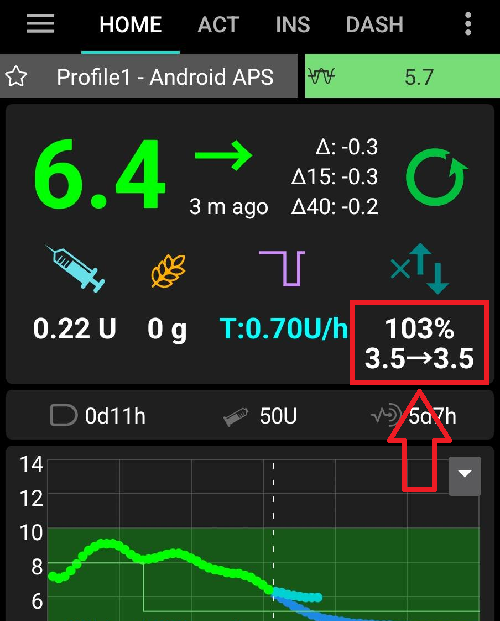
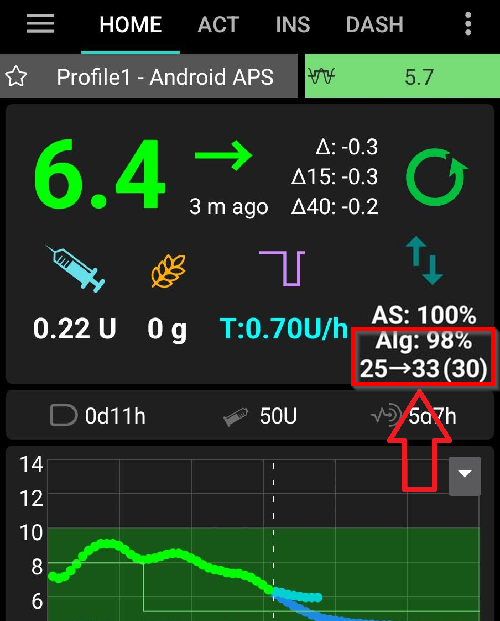
update Screens part for DynISF

Changed region(s): [[0.69, 0.3671, 1.0, 0.6425]]

diff --git a/docs/EN/DailyLifeWithAaps/AapsScreens.md b/docs/EN/DailyLifeWithAaps/AapsScreens.md
@@ -155,8 +155,8 @@ An icon with a kid's face at the top right of this section indicates that you ar
 
 ![Section D](../images/Home2020_TBR.png)
 
-**Syringe**: insulin on board (IOB) - amount of active insulin inside your body
-1. The insulin on board figure would be zero if just your standard basal was running and there was no insulin remaining from previous boluses. 
+1. **Syringe**: insulin on board (IOB) - amount of active insulin inside your body<br/>
+The insulin on board figure would be zero if just your standard basal was running and there was no insulin remaining from previous boluses. 
    - IOB may be negative if there have recently been periods of reduced basal.
    - Press the icon to see the split of bolus and basal insulin
 
@@ -164,7 +164,9 @@ An icon with a kid's face at the top right of this section indicates that you ar
     The icon pulses red if carbs are required (see [below](#aaps-screens-carbs-required))
 3. **Purple line**: current basal rate. The icon changes to reflect temporary changes in basal rate (flat at 100%)
    * Press the icon to see the base basal rate and details of any temp basal (including remaining duration)
-4. **Arrows up & down**: indicating actual [Autosens](#Open-APS-features-autosens) status (enabled or disabled) and value is shown below icon
+4. **Arrows up & down**: indicates dynamic sensitivity features status ([Autosens](#Open-APS-features-autosens) or [DynamicISF](#Open-APS-features-DynamicISF)): enabled or disabled. Several values may be shown in this section:
+  - AS: Autosens value. Shown even if Autosens is disabled (for information only). Also shown when DynISF is activated, although it has no effect.
+  - Alg: DynamicISF value (based on TDD). More information on the last line on [DynamicISF](#Open-APS-features-DynamicISF) page.
 
 (aaps-screens-carbs-required)=
 #### Carbs required

diff --git a/docs/EN/DailyLifeWithAaps/SensitivityDetectionAndCob.md b/docs/EN/DailyLifeWithAaps/SensitivityDetectionAndCob.md
@@ -18,6 +18,8 @@ Sensitivity is calculated as a weighted average from deviations. You can specify
 ### Sensitivity Oref1
 Sensitivity is calculated from 8h data in the past or from last site change, if it is less than 8h ago. Carbs (if not absorbed) are cut after time specified in preferences. Only the Oref1 algorithm supports un-announced meals (UAM). This means that times with detected UAM are excluded from sensitivity calculation. So if you are using SMB with UAM, you have to choose Oref1 algorithm to work properly. For more information read [OpenAPS Oref1 documentation](https://openaps.readthedocs.io/en/latest/docs/Customize-Iterate/oref1.html).
 
+Oref1 is the recommended option : it is the only one that can detect UAM and work with [OpenAps SMB](#Open-APS-features-super-micro-bolus-smb), the more recent algorithm.
+
 ## Simultaneous carbs
 There is significant difference while using AAPS, WeightedAverage vs Oref1.
 Oref plugins expects only one meal decaying at time. It means 2nd meal starts decaying after 1st meal is completely decayed. 

diff --git a/docs/EN/DailyLifeWithAaps/DynamicISF.md b/docs/EN/DailyLifeWithAaps/DynamicISF.md
@@ -21,6 +21,10 @@ Dynamic ISF - an example of a user's **ISF** subject to change as determined by 
 
 ![Dyn ISF](../images/DynISF2.png)
 
+The section circled in red shows: <br/>
+Alg:`DynamicISF value (based on TDD)`<br/>
+`profile ISF` -> `ISF as calculated by DynISF (used in SMB algorithm)` (`ISF used for COB calculations and bolus wizard`)
+
 The implementation uses the above equation to calculate current **ISF** and in the oref1 predictions for **IOB**, **ZT** and **UAM**. It is also used for **COB** and in the bolus wizard. Further discussion can be found here: [Chris Wilson on Insulin Sensitivity (Correction Factor) with Loop and Learn, 2/6/2022](https://www.youtube.com/watch?v=oL49FhOts3c).
 
 ## TDD (Total Daily Dose)
